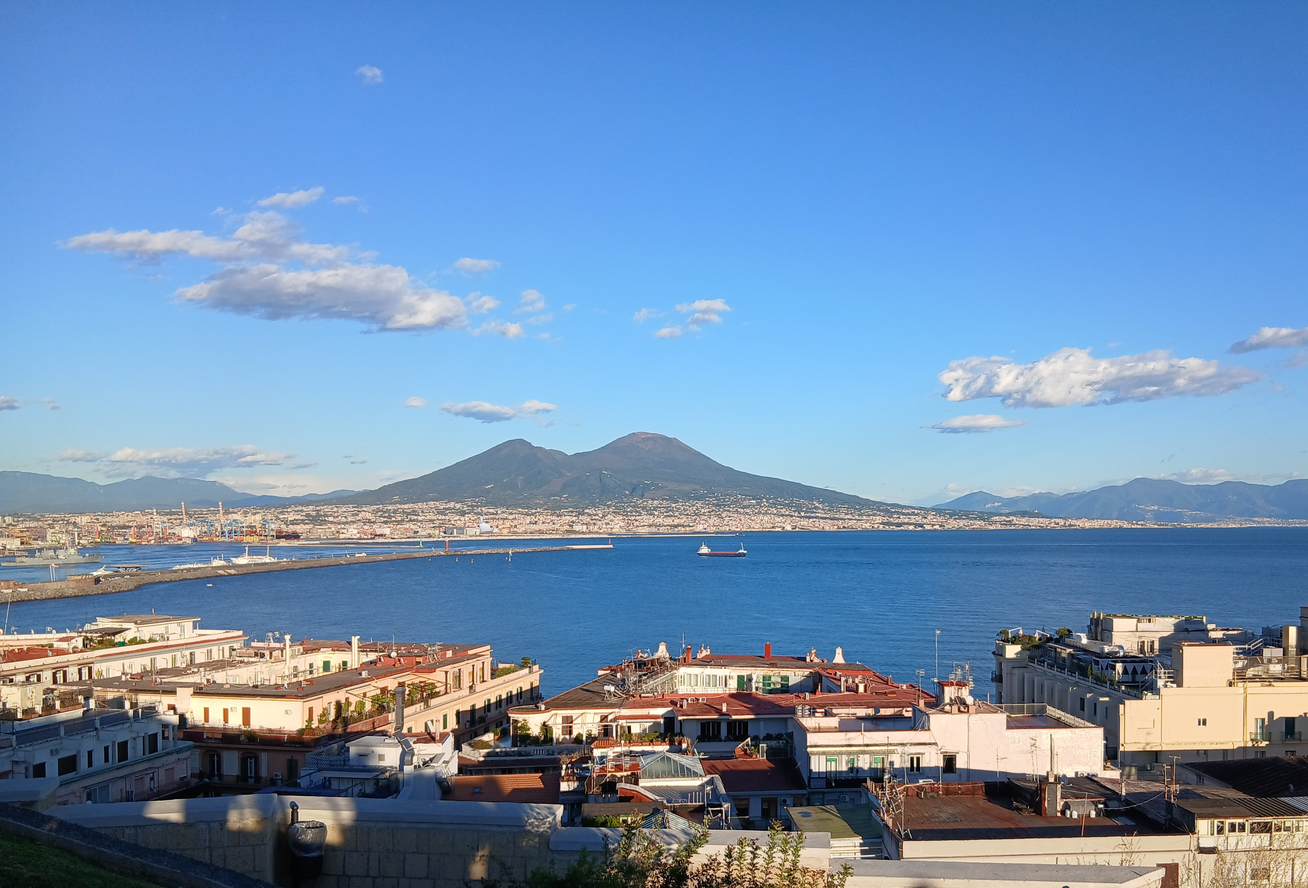
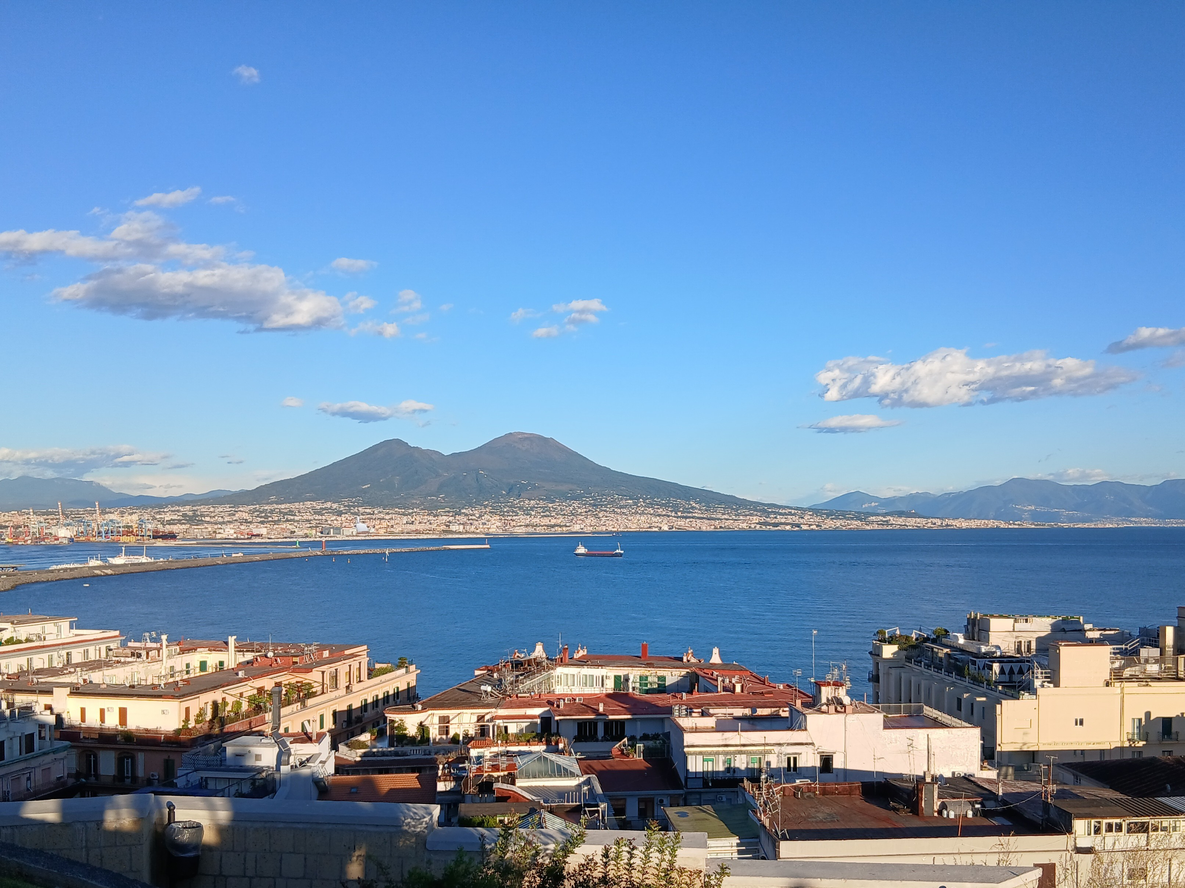
new post

diff --git a/content/blog/blog2/index.md b/content/blog/blog2/index.md
@@ -1,0 +1,44 @@
+---
+title: "My first post" 
+date: 2025-11-09 
+author: "Giulia Raffaella De Luca" 
+description: "Autogestione" 
+summary: "Riflessioni sul dottorato" 
+cover:
+    image: "blog2.jpg"
+    alt: "Mustang in Atlanta (oct 2025)"
+    relative: false
+#editPost:
+#    URL: "https://github.com/pmichaillat/hugo-website"
+#    Text: "Course portal"
+showToc: false
+disableAnchoredHeadings: false
+
+---
+
+## Autogestione
+
+Quando ho iniziato la triennale in ingegneria non avevo idea del carico di studio che avrei davvero dovuto sostenere. Provavo a portare avanti la mia strategia delle scuole superiori: tutto in 2 giorni prima dell'interrogazione. Inutile dire che non si può vincere una maratona solo sprintando per gli ultimi due minuti...
+Nonostante quest'incoscienza però avevo preso un'abitudine a dir poco paradossale: avevo lo zaino con i libri sempre con me, come una zavorrina, un pensiero costante. Forse era il segno di quello che avrei capito più avanti, la "posa della prima pietra".  
+
+Ci ho messo circa due anni poi a capire che aveva senso:
+1. Essere costante con lo studio, cercando di studiare lezione per lezione;
+2. Nella sessione di esami inserire dei 'cuscinetti' di giornate vuote, perchè non si sa mai che un giorno ti svegli con i neuroni in cortocircuito;
+3. Non ha senso portarsi lo zaino se sai che non potrai metterti a studiare.  
+E così (e grazie ad una formidabile compagna di studio) ho trovato un "punto di equilibrio stabile", in cui potermi dondolare e resistere alle perturbazioni esterne.  
+
+Ecco, in quest'ultimo periodo mi sono resa conto che ho ripreso a portarmi dietro una zavorra: il computer. Perchè c'è sempre un bug che potevo sistemare, un codice in esecuzione da controllare, una scadenza che rischio di bucare. Non cambia se in quella giornata ho già lavorato per 5, 8, 12 ore. Se c'è bisogno il computer è con me, con la differenza che non è più un peso morto, perchè spesso poi lo accendo. Per fixare quel bug, per controllare il codice, per finire di scrivere il paper da mandare in conferenza. Anche se ho già lavorato per 5, 8 o 12 ore. Anche se i miei neuroni sono in cortocircuito.  
+Certo mi prendo anche il tempo per andare a basket, preparare una cena per le amiche, fare 'doomscrolling', scrivere sul blog. Però pesa. L'autogestione non è cosa facile se sai che nel tuo lavoro in generale 'più fai e meglio è'. Più leggi, più analizzi, più scrivi, più pubblichi e più sei bravo, più diventi bravo. E chi non vuole essere bravo?  
+Sono fortunata perchè quello che faccio mi piace, e so che non è scontato.  
+Io credo che questa sete non andrà mai via, però vorrei anche riavere le sere libere ed essere comunque brava. Come quando studiavo in magistrale con la mia compagna. Tutti i giorni dalle 8 alle 19, con una passeggiata all'aperto durante la pausa pranzo, qualche caffè e qualche confidenza di tanto in tanto - e pure le discussioni sulle cose che capivamo ognuna a modo suo.  
+  
+
+Forse è proprio questo il segreto per sopravvivere all'autogestione: che è meglio se la dividi con qualcuno.
+
+A presto,
+Giulia
+
+--- 
+
+<iframe data-testid="embed-iframe" style="border-radius:12px" src="https://open.spotify.com/embed/track/7srqyRb5plksW5k65itXDB?utm_source=generator" width="100%" height="352" frameBorder="0" allowfullscreen="" allow="autoplay; clipboard-write; encrypted-media; fullscreen; picture-in-picture" loading="lazy"></iframe>
+

diff --git a/content/blog/blog1/index.md b/content/blog/blog1/index.md
@@ -7,7 +7,7 @@ summary: "Let me introduce myself"
 cover:
     image: "blog1.jpg"
     alt: "Golfo di Napoli (oct 2025)"
-    relative: true
+    relative: false
 #editPost:
 #    URL: "https://github.com/pmichaillat/hugo-website"
 #    Text: "Course portal"
